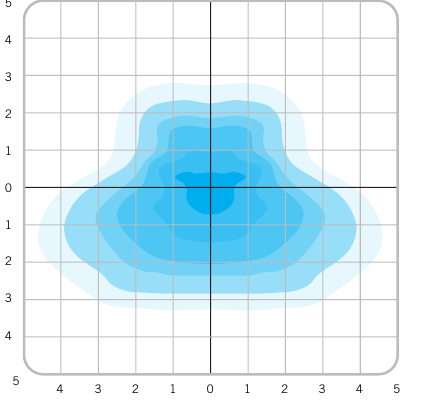
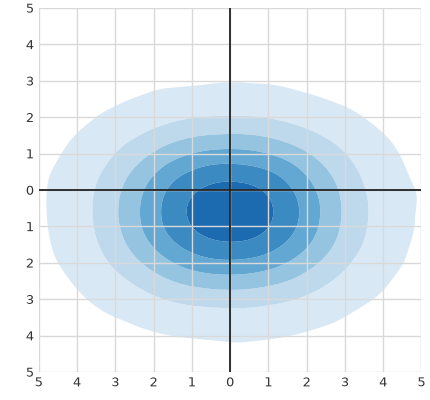
DSX polish: correct profile images, size-labelled gallery, full distribution set, spill-control marketing, and technical form tweaks
Product images:
- Fixed hero/thumbnail image (images[0]) to a true side-profile shot,
  matching the DPL convention — a couple of DSX gallery images were
  mislabelled and showed top-down/underside shots instead of profile
- Every DSX gallery photo is now tagged with its size (DSX0/DSX1/DSX2) and
  product.js renders that as a small badge on the thumbnail and the main
  image, since a mixed-size gallery was otherwise ambiguous
- New CLAUDE.md records both conventions (profile-shot hero, size badges
  on mixed-size galleries) plus the "ask before deviating from the DPL
  template" rule, so future product uploads stay consistent

D-Series content:
- Replaced the Bluetooth control accessories (H1S/H1P) with the actual
  spill-control accessory range: DSX.BLS (backlight shield kit, real
  per-size/LED-count part numbers from the install guide) and DSX.EGS
  (code included, description left blank pending confirmation)
- Full 9-distribution set (SY, AY, FW, FWE, NR, BLC, SQ, RCCO, LCCO)
  replacing the earlier 4-distribution subset, with newly generated chart
  art per distribution and per-size notes where Holophane's data specifies
  one (e.g. NR on DSX0/DSX1 only)
- Tagline, summary, a new lead badge and a new "Backlight control" key
  spec now foreground Holophane's Extreme Cutoff Optics (<0.5% backlight
  spill beyond the boundary line) as D-Series' standout differentiator
- Warranty confirmed as 5 years; IK rating left as an empty spec row
[…]

diff --git a/assets/js/product.js b/assets/js/product.js
@@ -92,6 +92,7 @@
       '<div class="product-gallery" id="productGallery">' +
         '<div class="product-hero__frame product-gallery__main">' +
           '<img id="galleryMainImg" src="../' + esc(images[0].file) + '" alt="' + esc(images[0].alt) + '">' +
+          (images[0].size ? '<span class="product-gallery__size-badge" id="galleryMainSize">' + esc(images[0].size) + '</span>' : '<span class="product-gallery__size-badge" id="galleryMainSize" hidden></span>') +
           '<span class="bracket bracket--tl" aria-hidden="true"></span>' +
           '<span class="bracket bracket--tr" aria-hidden="true"></span>' +
           '<span class="bracket bracket--bl" aria-hidden="true"></span>' +
@@ -102,9 +103,10 @@
             images.map(function (img, i) {
               return (
                 '<button type="button" class="product-gallery__thumb' + (i === 0 ? ' is-active' : '') + '" ' +
-                  'data-src="../' + esc(img.file) + '" data-alt="' + esc(img.alt) + '" ' +
+                  'data-src="../' + esc(img.file) + '" data-alt="' + esc(img.alt) + '" data-size="' + esc(img.size || '') + '" ' +
                   'role="tab" aria-selected="' + (i === 0 ? 'true' : 'false') + '" aria-label="' + esc(img.alt) + '">' +
                   '<img src="../' + esc(img.file) + '" alt="" loading="lazy">' +
+                  (img.size ? '<span class="product-gallery__thumb-label">' + esc(img.size) + '</span>' : '') +
                 '</button>'
               );
             }).join("") +
@@ -133,6 +135,7 @@
     var gallery = document.getElementById("productGallery");
     if (!gallery) return;
     var mainImg = document.getElementById("galleryMainImg");
+    var mainSize = document.getElementById("galleryMainSize");
     var thumbs = gallery.querySelectorAll(".product-gallery__thumb");
 
     function activate(btn) {
@@ -142,6 +145,11 @@
         mainImg.src = btn.getAttribute("data-src");
         mainImg.alt = btn.getAttribute("data-alt");
         mainImg.classList.remove("is-fading");
+        if (mainSize) {
+          var size = btn.getAttribute("data-size");
+          mainSize.textContent = size || "";
+          mainSize.hidden = !size;
+        }
       }, 140);
       thumbs.forEach(function (b) {
         b.classList.remove("is-active");
@@ -224,6 +232,7 @@
                 '<img class="dist-card__icon" src="../' + esc(d.chart) + '" alt="' + esc(d.name) + ' light distribution plot">' +
                 '<code>' + esc(d.code) + '</code>' +
                 '<span>' + esc(d.name) + '</span>' +
+                (d.note ? '<small>' + esc(d.note) + '</small>' : '') +
               '</div>'
             );
           }).join("") +

diff --git a/assets/css/product.css b/assets/css/product.css
@@ -118,6 +118,7 @@
 }
 
 .product-gallery__thumb {
+  position: relative;
   aspect-ratio: 1 / 1;
   background: var(--near-black);
   border: 1px solid var(--border-on-dark);
@@ -137,6 +138,27 @@
 
 .product-gallery__thumb:hover {
   border-color: var(--grey-500);
+}
+
+.product-gallery__thumb-label,
+.product-gallery__size-badge {
+  position: absolute;
+  bottom: 4px;
+  left: 4px;
+  font-family: var(--font-mono);
+  font-size: 0.6rem;
+  letter-spacing: 0.06em;
+  color: var(--glow-soft);
+  background: rgba(10, 10, 9, 0.85);
+  border: 1px solid var(--glow-dim);
+  padding: 1px 5px;
+  pointer-events: none;
+}
+
+.product-gallery__size-badge {
+  bottom: var(--space-2);
+  left: var(--space-2);
+  font-size: var(--text-xs);
 }
 
 .product-gallery__thumb.is-active {
@@ -305,6 +327,13 @@
 
 .dist-card span {
   font-size: var(--text-xs);
+}
+
+.dist-card small {
+  display: block;
+  font-size: 0.65rem;
+  color: var(--grey-500);
+  margin-top: 2px;
 }
 
 /* ---- Downloads ---- */

diff --git a/assets/css/components.css b/assets/css/components.css
@@ -930,6 +930,48 @@
   cursor: pointer;
 }
 
+.field--collapsible {
+  border: 1px solid var(--border-on-dark);
+  padding: var(--space-3);
+}
+
+.field--collapsible summary {
+  cursor: pointer;
+  font-family: var(--font-mono);
+  font-size: var(--text-xs);
+  letter-spacing: 0.06em;
+  text-transform: uppercase;
+  color: var(--grey-400);
+  list-style: none;
+}
+
+.field--collapsible summary::-webkit-details-marker {
+  display: none;
+}
+
+.field--collapsible summary::before {
+  content: "+ ";
+  color: var(--glow);
+}
+
+.field--collapsible[open] summary::before {
+  content: "− ";
+}
+
+.field--collapsible .field__hint {
+  display: block;
+  margin-top: var(--space-1);
+  font-family: var(--font-body);
+  text-transform: none;
+  letter-spacing: normal;
+  font-size: var(--text-sm);
+  color: var(--text-muted-on-dark);
+}
+
+.field--collapsible textarea {
+  margin-top: var(--space-3);
+}
+
 .field select option {
   background: var(--black);
   color: var(--cream);

diff --git a/technical-information.html b/technical-information.html
@@ -88,10 +88,10 @@
               <p style="color:var(--grey-500);font-family:var(--font-mono);font-size:var(--text-xs)">Loading options…</p>
             </div>
           </div>
-          <div class="field">
-            <label for="ti-notes">Anything else?</label>
+          <details class="field field--collapsible">
+            <summary>Anything else?<span class="field__hint">We can tailor a presentation to your requirements — tell us more below.</span></summary>
             <textarea id="ti-notes" name="notes"></textarea>
-          </div>
+          </details>
           <div class="field">
             <label for="ti-date">Preferred date</label>
             <input type="date" id="ti-date" name="preferredDate" autocomplete="off">

diff --git a/CLAUDE.md b/CLAUDE.md
@@ -1,0 +1,29 @@
+# Product page conventions
+
+New products are published through `data/products.json` + the shared
+`products/product.html` / `assets/js/product.js` template — never a bespoke
+page per product. Follow the format and section order already established
+by DPL (Denver iD Pole) and DSX (D-Series) exactly. If a new product's data
+doesn't cleanly fit that template (e.g. a detail DPL/DSX don't have, or a
+field neither of them needed), ask before improvising a variation.
+
+- **Multiple sizes/variants of one range** are one product entry (one
+  `code`, one page), with each size as a row in `dimensions.variants` —
+  not separate products/pages per size. See DSX0/DSX1/DSX2 under the
+  `"DSX"` product for the pattern.
+- **Hero/thumbnail image** (`images[0]`, used as both the product card
+  thumbnail and the default gallery image) should be a clean side-profile
+  shot for pole-mounted streetlight/area-lighting products — camera
+  perpendicular to the pole, arm and head shown in silhouette, no
+  three-quarter perspective. This is what DPL and DSX both use and it's
+  the preferred look.
+- **When a gallery mixes photos of different sizes** (as DSX does), tag
+  each image entry with a `"size"` field (e.g. `"DSX0"`). `product.js`
+  renders that as a small badge on the gallery thumbnail and on the main
+  image when selected, so it's never ambiguous which size a photo shows.
+  Leave `"size"` off images that aren't size-specific (dimension diagrams,
+  etc).
+- **Unconfirmed spec values** (manufacturer data not supplied, e.g.
+  warranty period, IK rating): add the row with an empty `"value"` rather
+  than guessing or fabricating a number. Don't invent figures for a public
+  spec page.
